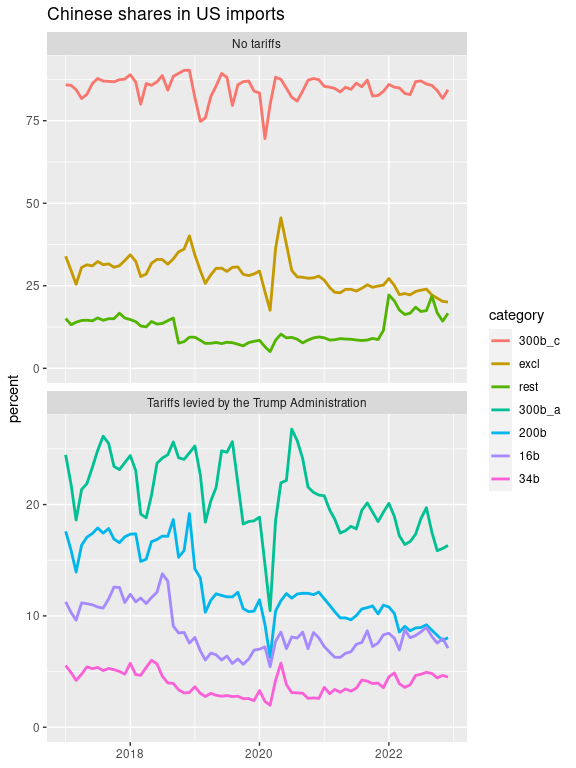
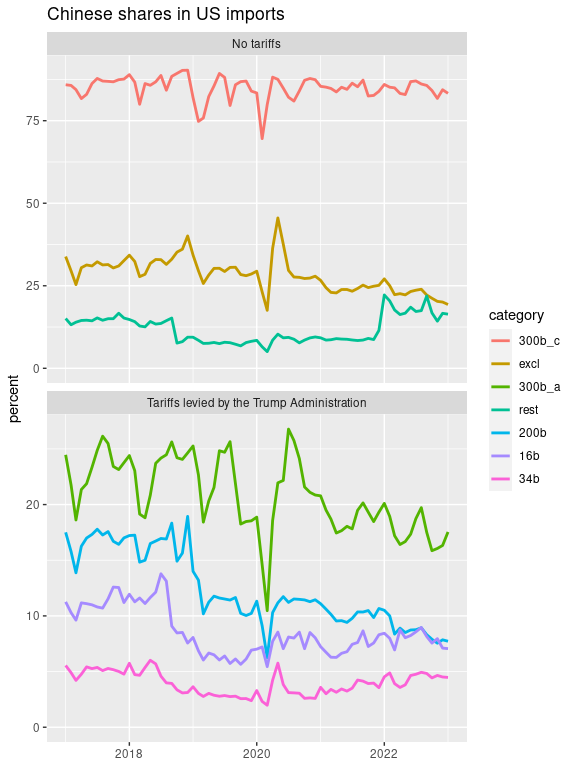
update January 2023 trade, and remove double in df_list

diff --git a/README.md b/README.md
@@ -19,7 +19,7 @@ Mitsuo Shiota
   id="toc-look-at-the-chinese-share-movements">Look at the Chinese share
   movements</a>
 
-Updated: 2023-02-08
+Updated: 2023-03-09
 
 I separated the codes of extracting HTS from USTR site to [another
 page](Extract-hts-from-USTR.md).
@@ -154,14 +154,6 @@ What can I say from the chart below?
 <!-- -->
 
     ## Warning in responseFormat(raw): NAs introduced by coercion
-
-    ## Warning in left_join(., df_list_200b, by = "hs8"): Each row in `x` is expected to match at most 1 row in `y`.
-    ## ℹ Row 1033745 of `x` matches multiple rows.
-    ## ℹ If multiple matches are expected, set `multiple = "all"` to silence this
-    ##   warning.
-
-    ## Warning: Using `size` aesthetic for lines was deprecated in ggplot2 3.4.0.
-    ## ℹ Please use `linewidth` instead.
 
 ![](README_files/figure-gfm/get_data-1.png)<!-- -->
 
